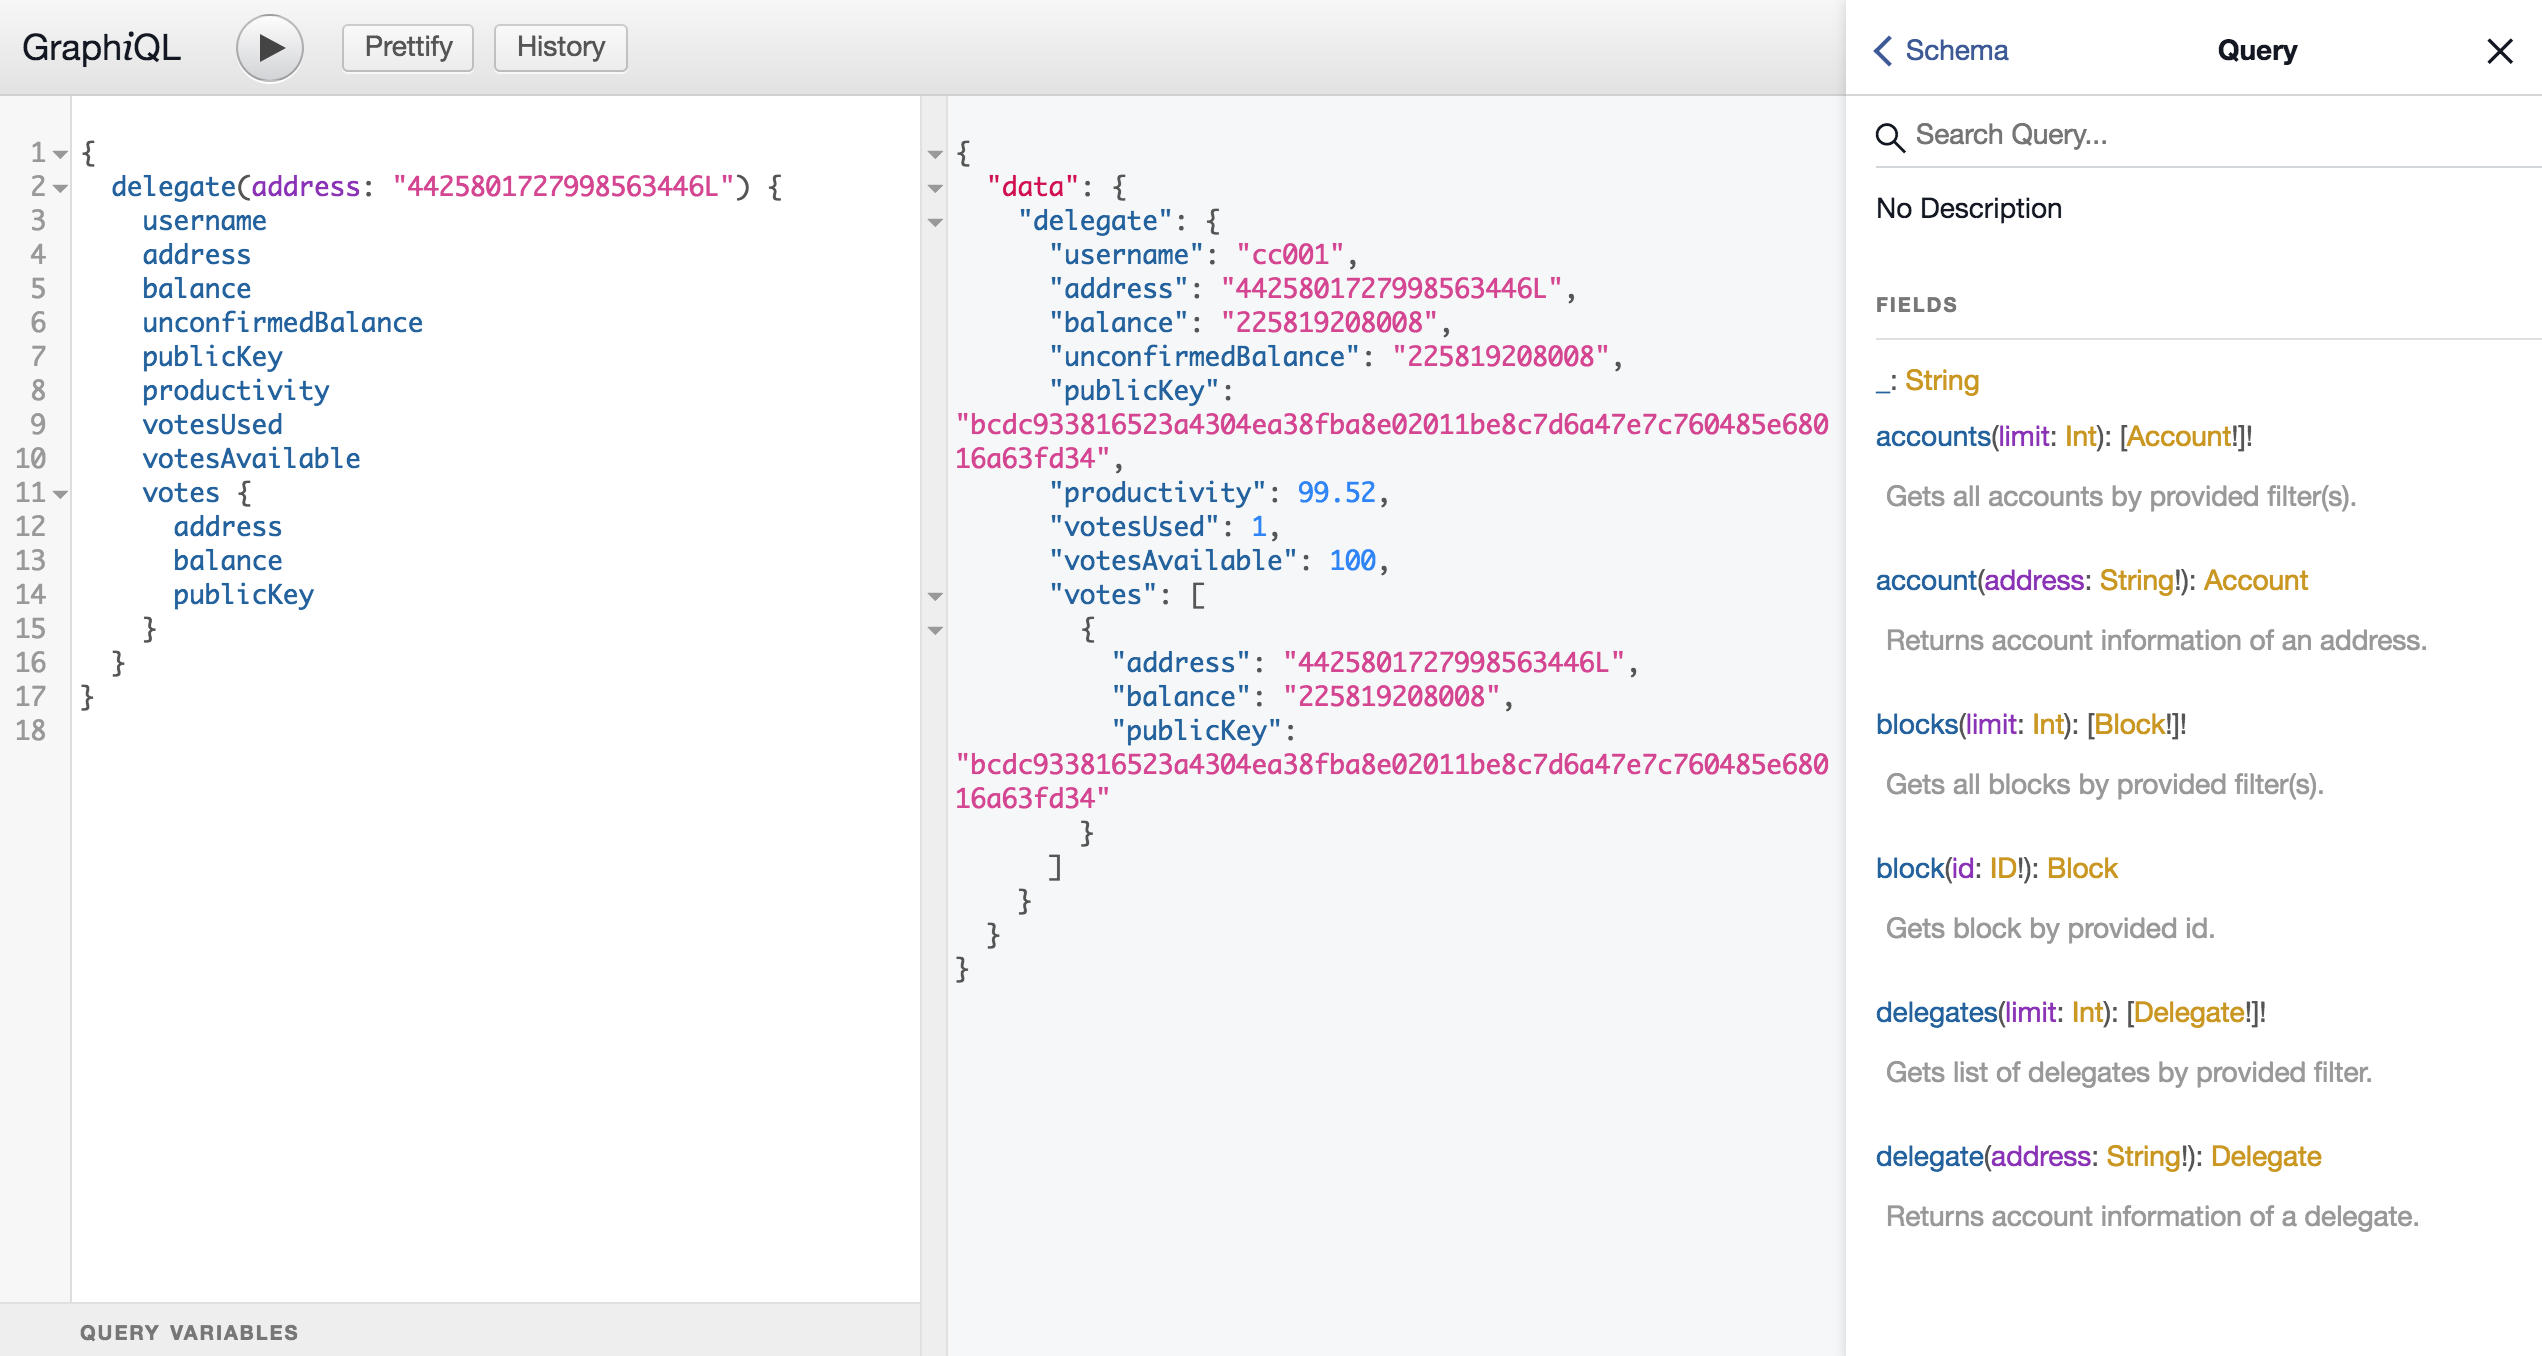
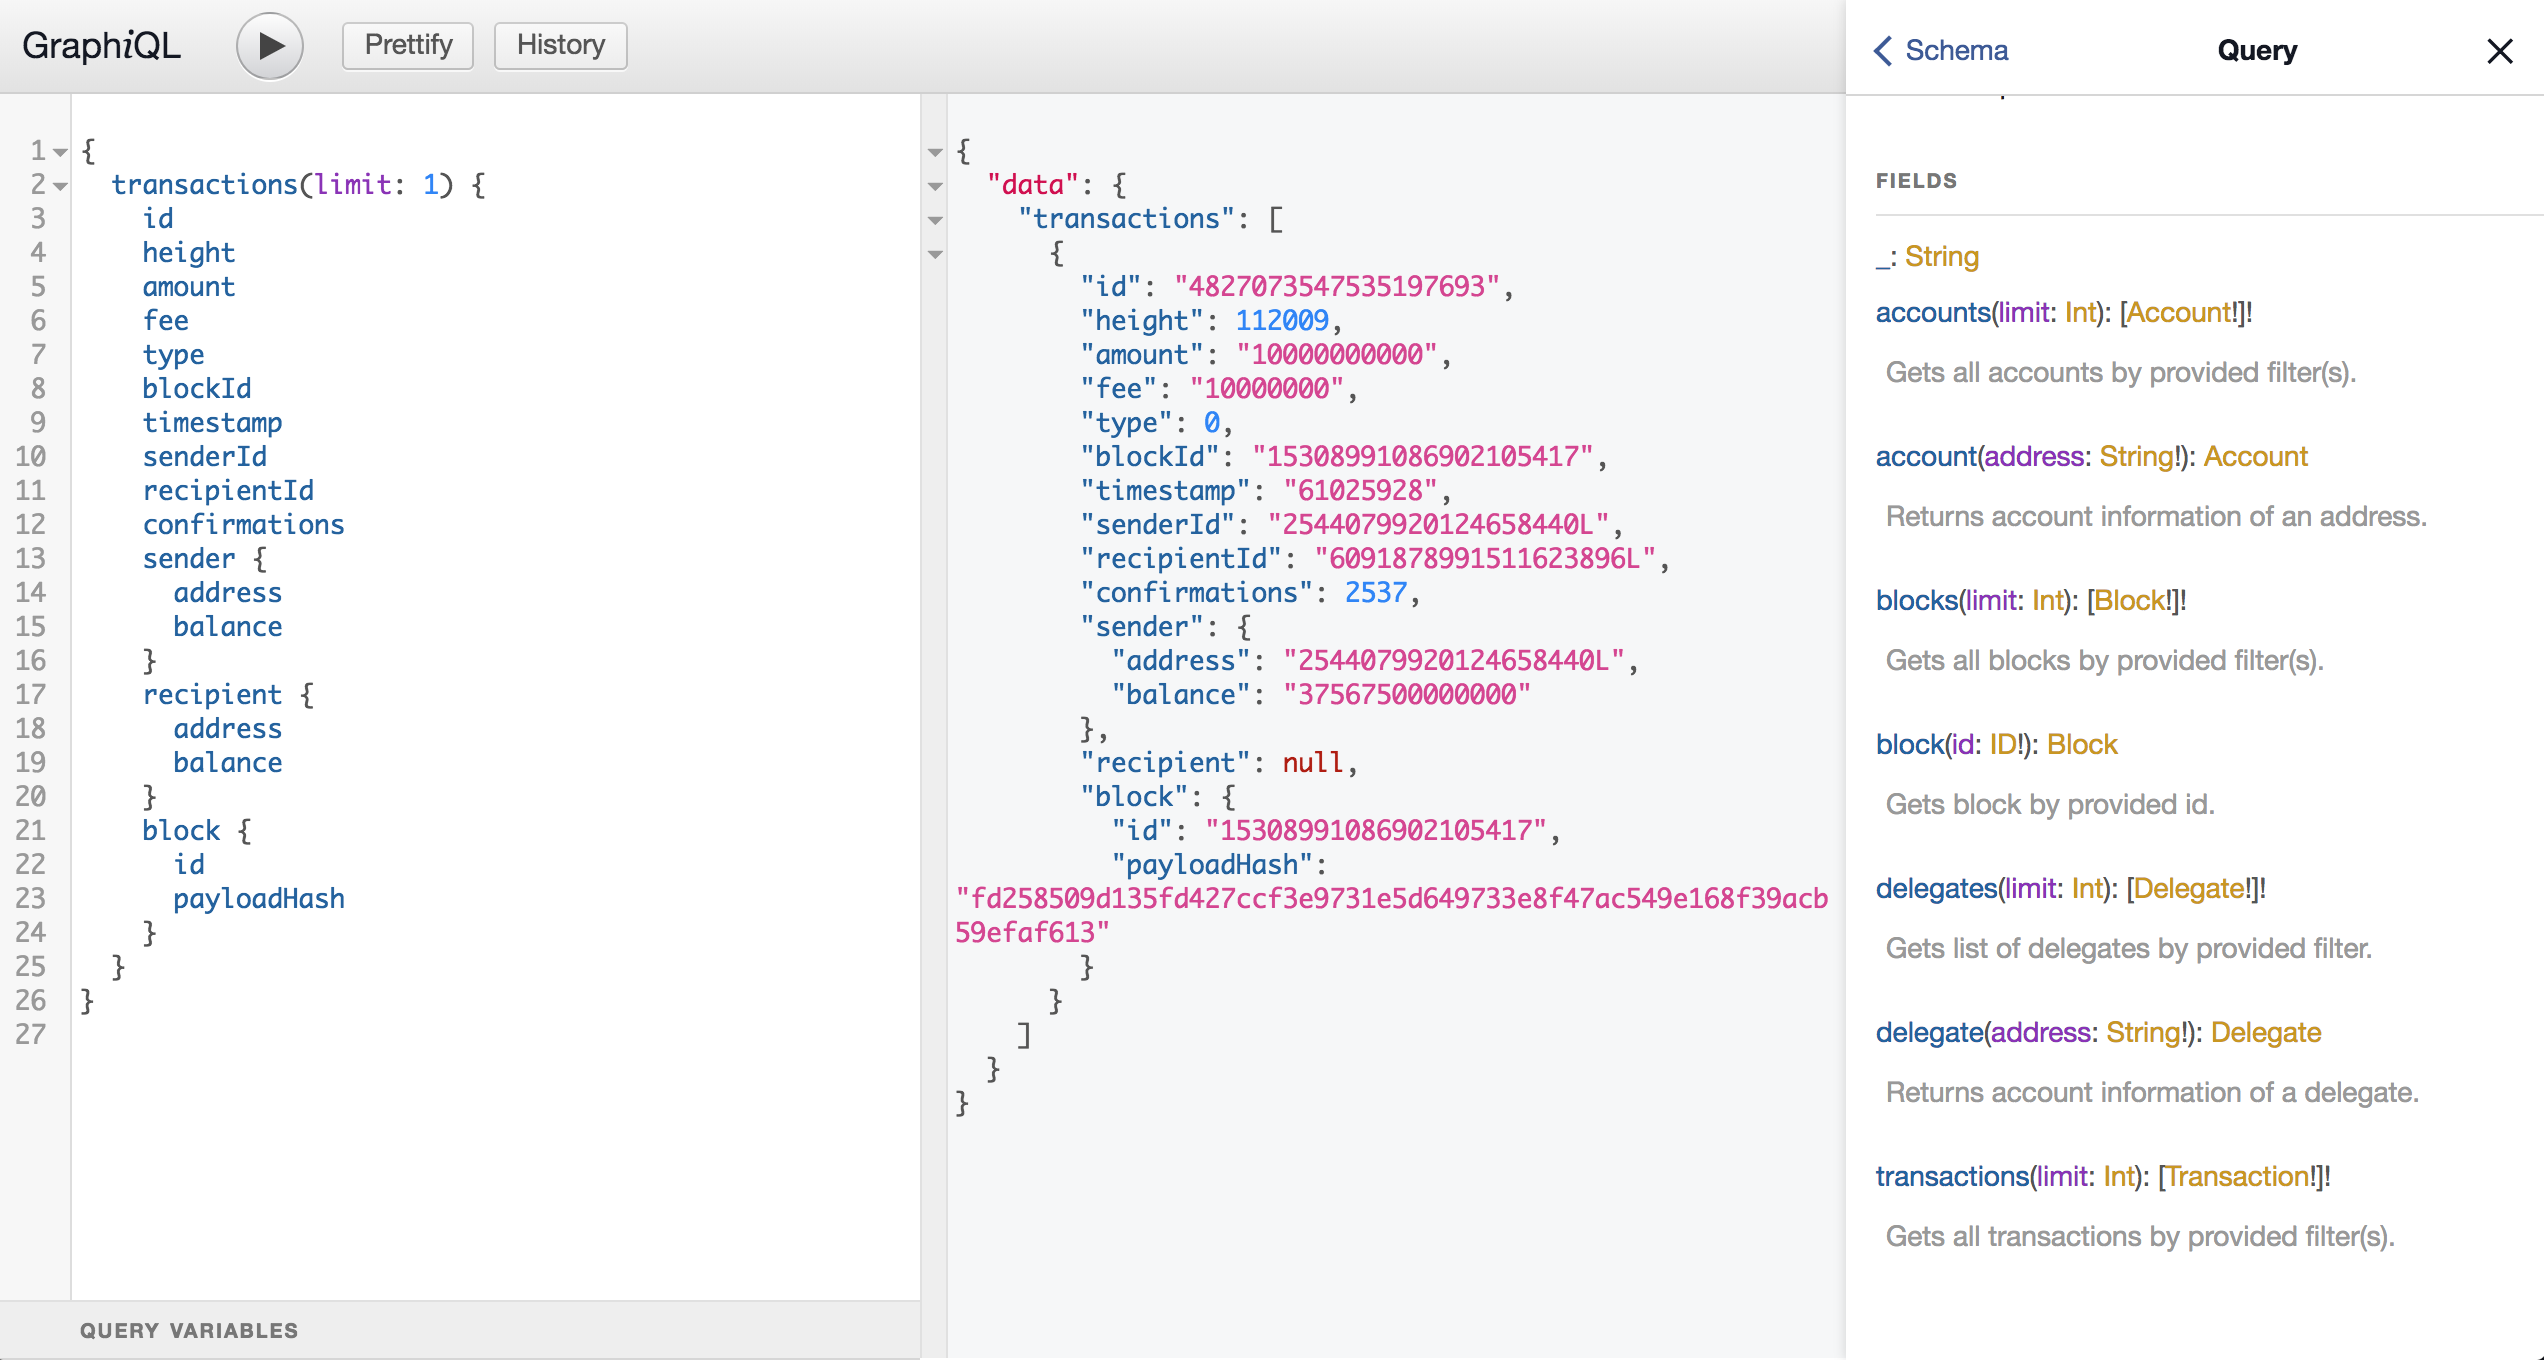
Feature/transactions (#12)
* setup transactions

* sender type

* recipient field

* block relation

* update graphiql image

* get single transaction

* Add travis badge to README

* remove some comments

diff --git a/src/transaction/typeDef.js b/src/transaction/typeDef.js
@@ -1,0 +1,73 @@
+exports.typeDef = `
+  type Transaction {
+    # Unique identifier of the transaction. Derived from the transaction signature.
+    id: String!
+
+    # Amount of Lisk to be transferred in this transaction.
+    amount: String!
+
+    # Transaction fee associated with this transaction.
+    fee: String!
+
+    # Describes the Transaction type.
+    type: Int!
+
+    # The height of the network, at the moment where this transaction was included in the blockchain.
+    height: Int
+
+    # The Id of the block, this transaction is included in.
+    blockId: String
+
+    # The transaction block where the transaction is included.
+    block: Block
+
+    # Time when the transaction was created. Unix Timestamp.
+    timestamp: String!
+
+    # Lisk Address of the Senders’ account.
+    senderId: String
+
+    # Lisk Senders’ account.
+    sender: Account
+
+    # Lisk Address of the Recipients’ account.
+    recipientId: String
+
+    # Lisk Recipients’ account.
+    recipient: Account
+
+    # Derived from a SHA-256 hash of the transaction object, that is signed by the private key of the account who created the transaction.
+    # TODO signature: String!
+
+    # Contains the second signature, if the transaction is sent from an account with second passphrase activated.
+    # TODO signSignature: String
+
+    # TODO signatures
+
+    # Number of times that this transaction has been confirmed by the network. By forging a new block on a chain, all former blocks and their contained transactions in the chain get confirmed by the forging delegate.
+    confirmations: Int
+
+    # The timestamp of the moment, where a node discovered a transaction for the first time.
+    # TODO receivedAt: String
+
+    # Number of times, a single transaction object has been broadcasted to another peer.
+    # TODO relays: Int
+
+    # Only present in transactions sent from a multisignature account, or transactions type 4 (multisignature registration). False, if the minimum amount of signatures to sign this transaction has not been reached yet. True, if the minimum amount of signatures has been reached.
+    # TODO ready: Boolean
+  }
+
+  extend type Query {
+    # Gets all transactions by provided filter(s).
+    transactions(
+      # Limit of transactions to add to response. Default to 100.
+      limit: Int
+    ): [Transaction!]!
+
+    # Gets transaction by provided id.
+    transaction(
+      # Id of transaction.
+      id: ID!
+    ): Transaction
+  }
+`;

diff --git a/src/transaction/monster.js b/src/transaction/monster.js
@@ -1,0 +1,63 @@
+const { limitFromArgs } = require('../helpers/monster');
+
+exports.monster = {
+  Query: {
+    fields: {
+      transactions: {
+        orderBy: { b_height: 'desc' },
+        limit: limitFromArgs,
+        // TODO args offset
+        // TODO args order by enum
+        // TODO other args filters
+      },
+      transaction: {
+        where: (table, args) => `${table}.t_id = '${args.id}'`,
+      },
+    },
+  },
+  Transaction: {
+    sqlTable: 'trs_list',
+    uniqueKey: 't_id',
+    fields: {
+      id: {
+        sqlColumn: 't_id',
+      },
+      height: {
+        sqlColumn: 'b_height',
+      },
+      blockId: {
+        sqlColumn: 't_blockId',
+      },
+      type: {
+        sqlColumn: 't_type',
+      },
+      timestamp: {
+        sqlColumn: 't_timestamp',
+      },
+      senderId: {
+        sqlColumn: 't_senderId',
+      },
+      recipientId: {
+        sqlColumn: 't_recipientId',
+      },
+      amount: {
+        sqlColumn: 't_amount',
+      },
+      fee: {
+        sqlColumn: 't_fee',
+      },
+      block: {
+        sqlJoin: (transactionTable, accountTable) =>
+          `${transactionTable}."t_blockId" = ${accountTable}."b_id"`,
+      },
+      sender: {
+        sqlJoin: (transactionTable, accountTable) =>
+          `${transactionTable}."t_senderId" = ${accountTable}."address"`,
+      },
+      recipient: {
+        sqlJoin: (transactionTable, accountTable) =>
+          `${transactionTable}."t_recipientId" = ${accountTable}."address"`,
+      },
+    },
+  },
+};

diff --git a/src/index.js b/src/index.js
@@ -38,6 +38,12 @@ const {
   Query: DelegateQuery,
   resolver: DelegateResolver,
 } = require('./delegate');
+const {
+  typeDef: TransactionTypeDef,
+  monster: TransactionMonster,
+  Query: TransactionQuery,
+  resolver: TransactionResolver,
+} = require('./transaction');
 
 // TODO sanityse sql queries inputs
 
@@ -48,15 +54,30 @@ const typeDefs = `
 `;
 
 const resolvers = {
-  Query: merge(AccountQuery, BlockQuery, DelegateQuery),
+  Query: merge(AccountQuery, BlockQuery, DelegateQuery, TransactionQuery),
 };
 
 const schema = makeExecutableSchema({
-  typeDefs: [typeDefs, AccountTypeDef, BlockTypeDef, DelegateTypeDef],
-  resolvers: merge(resolvers, AccountResolver, BlockResolver, DelegateResolver),
+  typeDefs: [
+    typeDefs,
+    AccountTypeDef,
+    BlockTypeDef,
+    DelegateTypeDef,
+    TransactionTypeDef,
+  ],
+  resolvers: merge(
+    resolvers,
+    AccountResolver,
+    BlockResolver,
+    DelegateResolver,
+    TransactionResolver
+  ),
 });
 
-joinMonsterAdapt(schema, merge(AccountMonster, BlockMonster, DelegateMonster));
+joinMonsterAdapt(
+  schema,
+  merge(AccountMonster, BlockMonster, DelegateMonster, TransactionMonster)
+);
 
 const app = express();
 

diff --git a/src/transaction/query.js b/src/transaction/query.js
@@ -1,0 +1,16 @@
+const joinMonster = require('join-monster').default;
+
+const { knex } = require('../knex');
+
+exports.Query = {
+  transactions(parent, args, ctx, resolveInfo) {
+    return joinMonster(resolveInfo, ctx, sql => knex.raw(sql), {
+      dialect: 'pg',
+    });
+  },
+  block(parent, args, ctx, resolveInfo) {
+    return joinMonster(resolveInfo, ctx, sql => knex.raw(sql), {
+      dialect: 'pg',
+    });
+  },
+};

diff --git a/src/transaction/index.js b/src/transaction/index.js
@@ -1,0 +1,17 @@
+// https://github.com/LiskHQ/lisk/blob/v1.0.0-beta.7/logic/transaction.js
+
+const { typeDef } = require('./typeDef');
+
+exports.typeDef = typeDef;
+
+const { monster } = require('./monster');
+
+exports.monster = monster;
+
+const { Query } = require('./query');
+
+exports.Query = Query;
+
+const { resolver } = require('./resolver');
+
+exports.resolver = resolver;

diff --git a/src/transaction/resolver.js b/src/transaction/resolver.js
@@ -1,0 +1,3 @@
+exports.resolver = {
+  Transaction: {},
+};

diff --git a/README.md b/README.md
@@ -4,6 +4,8 @@
   <img src="https://github.com/cryptobaguette/lisk-graphql/raw/master/assets/logo.png">
 </p>
 
+[![Build Status](https://travis-ci.org/cryptobaguette/lisk-graphql.svg?branch=master)](https://travis-ci.org/cryptobaguette/lisk-graphql)
+
 Graphql api for lisk.
 
 The aim of this project is to provide a graphql api on top of the lisk database to help you build new tools and applications.
